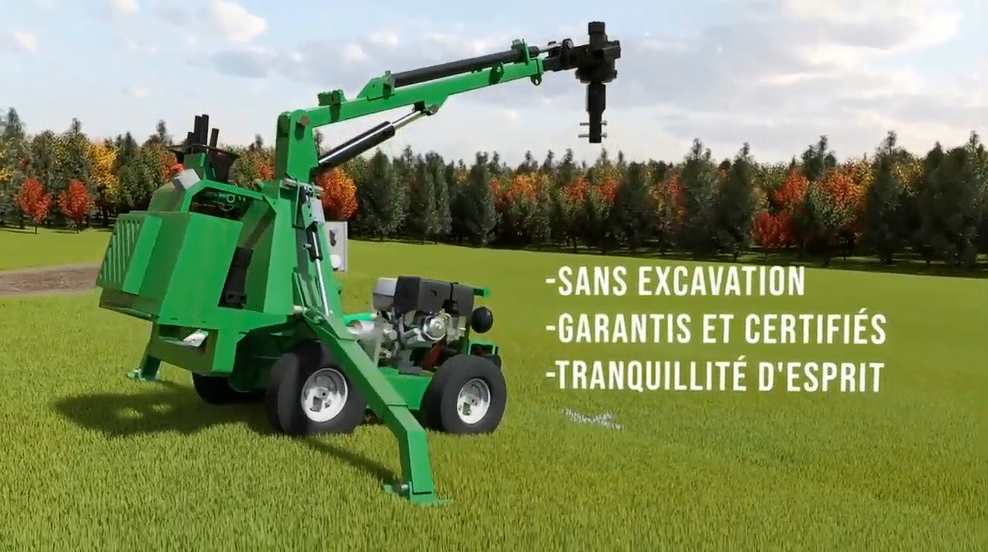
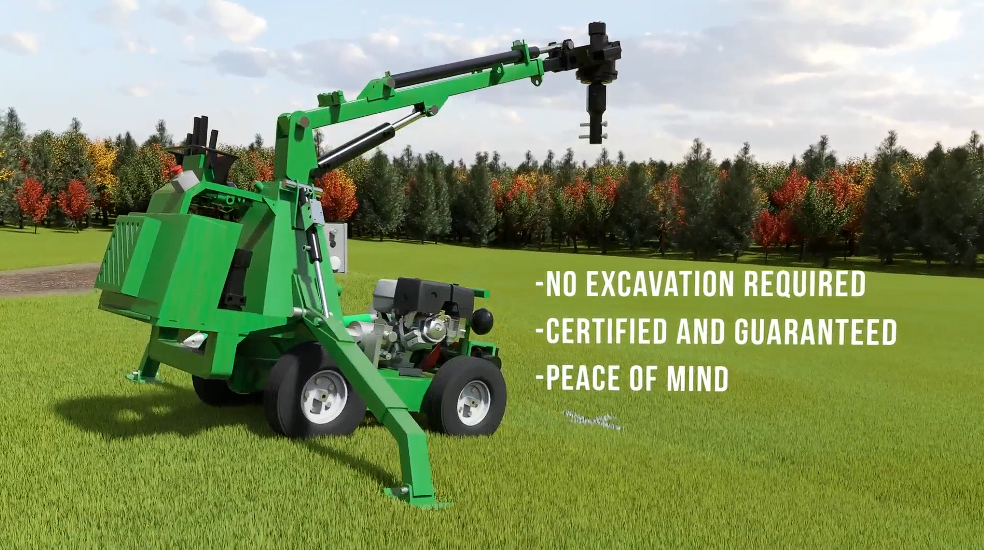
video machine en anglais

Changed region(s): [[0.0, 0.0309, 1.0, 1.0], [0.9756, 0.4327, 1.0, 0.4945]]

diff --git a/index.html b/index.html
@@ -66,7 +66,7 @@ PAGE: WHAT IS TMP?
                 <div class="slide-media single">
                   <!--<div class="placeholder placeholder--single">Photo: TMP machine on site</div>-->
                   <video controls poster="assets/whatistmp/miniature_vidéo-machine.png" width="80%">
-                    <source src="https://data.tp-sehu.fr/html-site/vidéo-machine.mp4" type="video/mp4"/>
+                    <source src="https://data.tp-sehu.fr/html-site/vid%C3%A9o-machine.mp4" type="video/mp4"/>
                   </video>
                 </div>
               </div>